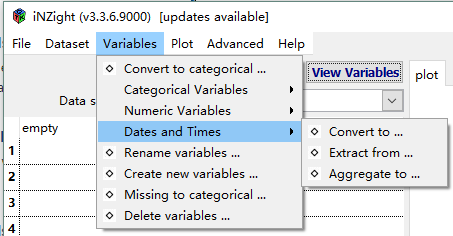
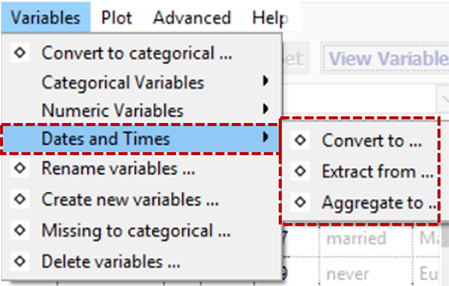
More on Variables

diff --git a/iNZight/user_guides/variables/manipulate.Md b/iNZight/user_guides/variables/manipulate.Md
@@ -8,7 +8,7 @@ By default, if __all the values__ of a variable are __numbers__, then that varia
 If __any of the values__ contains even one __alphabetic character__, then (by default) the whole variable will be treated as a __categorical variable__ (i.e., one that gives group membership). The one exception is  the value `NA`, which is treated as a missing-value code in both numeric and categorical variables.
 
 ##Page Contents:
-![Manipulate Variables Menu](../../img/user_guides/interface/4_inzight_menu_variables.png){.borderbox .fright, width="150px"}
+![Manipulate Variables Menu](../../img/user_guides/interface/4_inzight_menu_variables.png){.borderbox .fright .width600}
 * [Convert to Categorical ...](#convert1)
 * [Categorical Variables](#catvars)  
 &emsp;&ensp;&bull; [Reorder Levels ...](#reorder)   
@@ -35,9 +35,9 @@ Creates a categorical version of a numeric variable (for more sophisticated vers
 
 
 ## Categorical Variables     {#catvars}
-![Manipulate Categorical Variables Menu](../../img/user_guides/variables/1_menu_categorical.png){.borderbox}
 
 ### Reorder Levels {#reorderlevs}
+![Manipulate Categorical Variables Menu](../../img/user_guides/variables/1_menu_categorical.png){.borderbox .fright .width450}
 By default, the levels of a categorical variable are displayed in alpha-numeric order. This enables you to change from the default order of display to something more natural; e.g. from {"adolescent", "adult", "child", "elder"} to {"child", "adolescent", "adult", "elder"}.
 
 
@@ -51,9 +51,9 @@ Change the names of the levels of a categorical variable, e.g. from (ages) {"< 1
 Take two categorical variables and create a new categorical variable whose levels are all combinations of those two (e.g., the combinations of ethnicity and gender).
 
 ## Numeric Variables       {#numvars}
-![Manipulate Numeric Variables Menu](../../img/user_guides/variables/2_menu_numerical.png){.borderbox}
 
 ### Transform Variables {#transform}
+![Manipulate Numeric Variables Menu](../../img/user_guides/variables/2_menu_numerical.png){.borderbox .fright .width500}
 Creates a new variable that is a transformed version of the parent variable. Transformations available are `log` (base `e` or base 10), exponential, square, square root and reciprocal.
 
 
@@ -76,11 +76,11 @@ For example, the variable `age = {15, 12, 19, 16}` would result in the new varia
 ### Convert to Categorical (Multiple) {#convert2}
 This has the same result as the previous "Convert to Categorical" tool, however it allows users to convert multiple variables at once.
 
-![Manipulate Dates and Times Menu](../../img/user_guides/variables/3_menu_dates_and_times.png){.borderbox .fright}
+![Manipulate Dates and Times Menu](../../img/user_guides/variables/3_menu_dates_and_times.png){.borderbox .fright .width400}
 ## Dates and Times {#datetimes}
-&emsp;&ensp;&bull; [Convert to ...](#dtconvert)  
-&emsp;&ensp;&bull; [Extract  from ...](#dtextract)  
-&emsp;&ensp;&bull; [Aggregate to ...](#dtaggregate)
+* [Convert to ...](#dtconvert)  
+* [Extract  from ...](#dtextract)  
+* [Aggregate to ...](#dtaggregate)
 
 <br>  
 <br>  
@@ -91,42 +91,74 @@ This has the same result as the previous "Convert to Categorical" tool, however 
 
 
 
-### Convert to ... {#dtconvert}
+### (Date-times) Convert to ... {#dtconvert}
 Convert a variable to a standard dates and times (POSIXct) format and ___saves___ as a ___new variable___.
 ___
 _In the example that follows_, Time.stamp _is a categorical variable that we wish to convert to a 
 variable that iNZight recognises as a datetime variable._
 
-![Manipulate Categorical Variables Menu](../../img/user_guides/variables/dateyear_convert_big_50pc.png){.borderbox}
+![Convert to Date-time Menu](../../img/user_guides/variables/dateyear_convert_big_50pc.png){.borderbox .width800}
 
-### Extract from ...  {#dtextract}
+### (Date-times) Extract from ...  {#dtextract}
 
 Creates a new variable by extracting specific component (e.g. data, year, time...) from a dates and times variable in a large variety of levels of detail and of format.  
 * The pattern is to ___expand the option___ (click the "+") referring to the ___most detailed level of information___ you want in the result. The preview will show you what the result of your choice  will look like.
 
 _In the example that follows_, Time.stamp.dt _is a categorical variable that we wish to convert to a 
-variable that iNZight recognises as a datetime variable_ Timestamp.dt. _Whaty we want to do is extract a new variable containing the Year and the decimal part of the Year ("Decimal Year")_ 
+variable that iNZight recognises as a datetime variable_ Timestamp.dt. _What we want to do is extract a new variable containing the Year and the decimal part of the Year ("Decimal Year")_ 
 
-![Manipulate Categorical Variables Menu](../../img/user_guides/variables/dateyear_extract_big.png){.borderbox}
+![Extract from Date-time Menu](../../img/user_guides/variables/dateyear_extract_big.png){.borderbox .width00}
 
-### Aggregate to ...  {#dtaggregate}
+![Aggregate over Date-time Menu](../../img/user_guides/variables/dt_aggregate.png){.borderbox .fright .width400}
+### (Date-times) Aggregate over ...  {#dtaggregate}
+Converts to   
+* a ___weekly___ (_e.g. 2019 W7_), ___monthly___ (_e.g. 2019 M5_), ___quarterly___ (_e.g. 2019 Q3_) or ___yearly___ (_e.g. 2019_) variable in the form that the time series variable likes
 
-Creates a categorical variable by aggregating a single times series variable to a weekly, monthly, quarterly or yearly time series variable.
+and aggregates using ___sum___, ___mean___, or ___median___.
+
+_In the Example_, `origintime` _is a date-time variable_ [thus, annotated `(t)` in View Variables] _and we have chosen to convert it to monthly_ (`yyyy Myy`) _with all of the values in the same month aggregated to their_ `mean`.
+
+The `count` column shows how many values have been aggregated. If there are missing values present in a variable being aggregated, then another column of the form `variable.missing`. Missing values are ignored when aggregating.
+
+<br>  
+<br>  
+<br>  
+<br>  
+
+_In the Example below a categorical variable in monthly_ (`yyyy Mzz`) _format is aggregated to quarterly (`yyyy Qz`)._
+![Aggregate over Date-time Examp2](../../img/user_guides/variables/dt_aggregate2.png){.borderbox .fright .width400}
+
+<br>  
+<br>  
+<br>  
+<br>  
+<br>  
+<br>  
+<br>  
+<br>  
+<br>  
+<br>  
+<br>  
+
 
 
 ### Rename Variables {#renamevars}
 Rename variables in the dataset. Especially useful for variables created by iNZight.
+  
 
 
 ### Create New Variable {#create}
 A very flexible facility for creating new variables from existing variables, essentially by doing arithmetic on them.
+  
+![Create New Variable Menu](../../img/user_guides/variables/createnewvar.png){.borderbox .fright .width400}
+_Left-hand box_: desired name for new variable  
+_Right-hand box_: any valid __R__ expression  
 
-For example,
+Examples
 - `income = hours * payrate`
 - `weight.diff = end.weight - begin.weight`
 - `average.weight = ( begin.weight + endweight) / 2`
 
-This new variable can take any valid __R__ expression.
 
 ## Missing to Categorical {#missingcat}
 
@@ -137,6 +169,6 @@ This new variable can take any valid __R__ expression.
   The variable will be converted into a categorical variable with two levels: `missing` and `observed`.
 
 ## Delete Variables {#deletevars}
-Delete variables from the dataset.
+Delete variables from the dataset. Click variable names using the __Shift__ and __Control__ keys to choose multiple variables for deletion.
 
 
